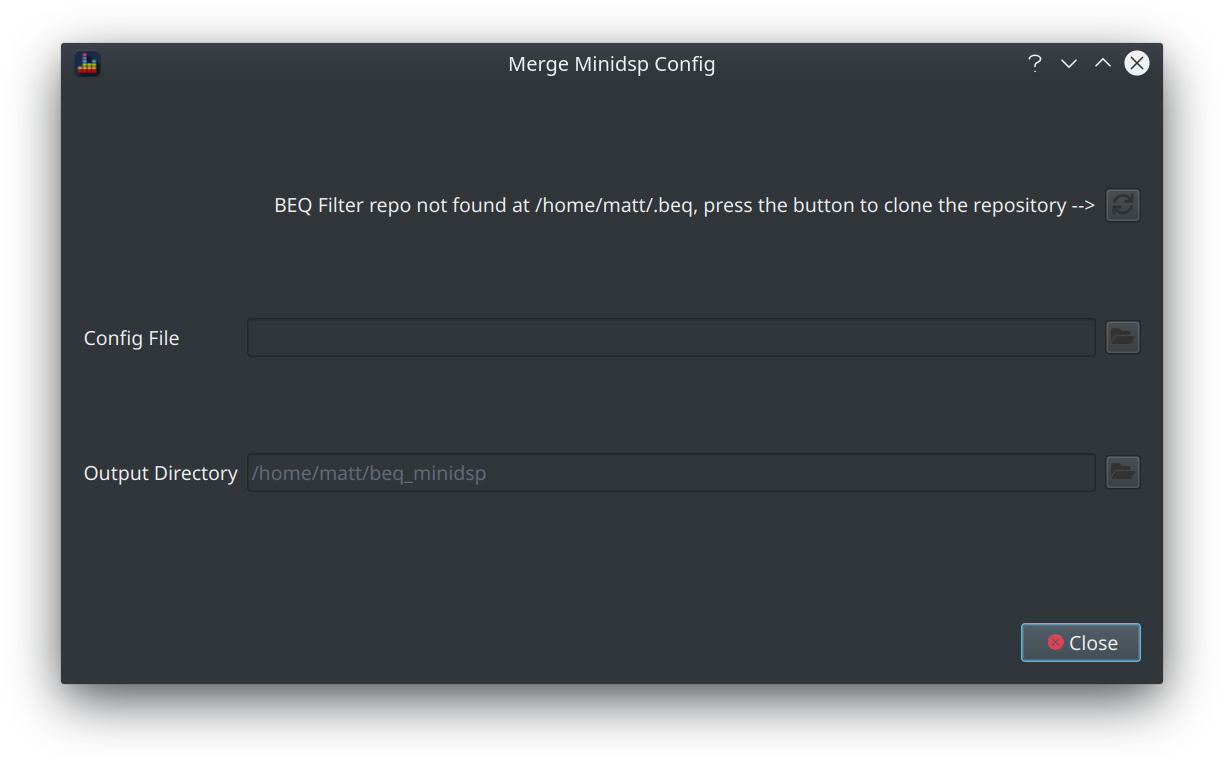
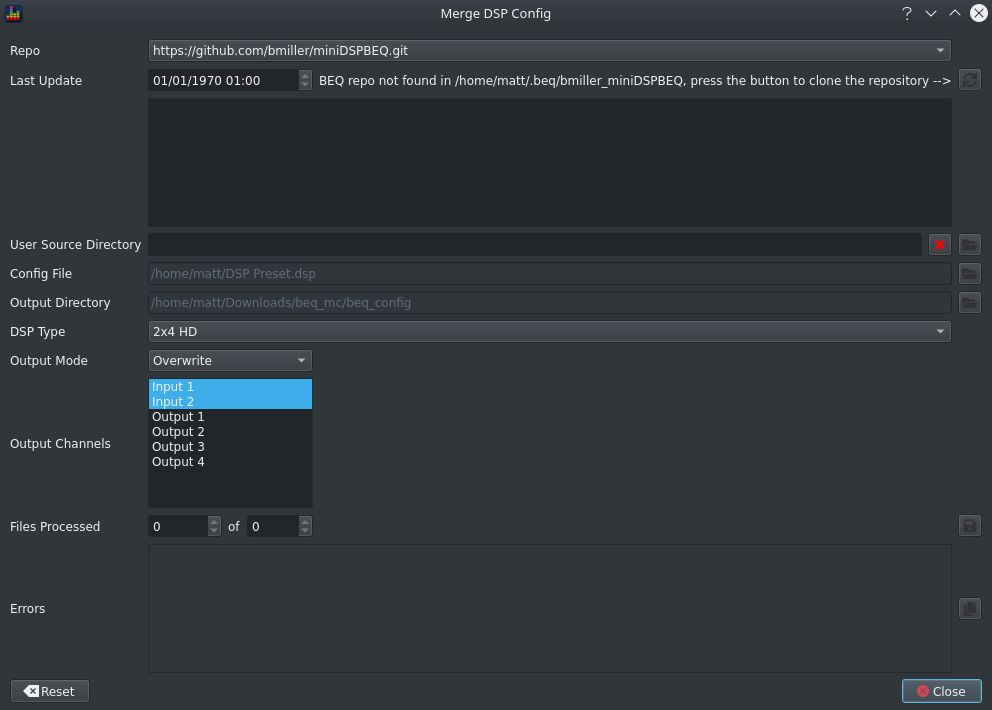
updated beq merge docs and make warning respect the config file extension of the selected dsp device

Changed region(s): [[0.0, 0.0, 1.0, 1.0], [0.1562, 0.3718, 0.4062, 0.4338]]

diff --git a/src/main/python/model/merge.py b/src/main/python/model/merge.py
@@ -295,11 +295,13 @@ class MergeFiltersDialog(QDialog, Ui_mergeDspDialog):
         Empties the output directory if required
         '''
         import glob
-        matching_files = glob.glob(f"{self.outputDirectory.text()}/**/*.xml", recursive=True)
+        dsp_type: DspType = DspType.parse(self.dspType.currentText())
+        matching_files = glob.glob(f"{self.outputDirectory.text()}/**/*.{dsp_type.extension}", recursive=True)
         if len(matching_files) > 0:
             result = QMessageBox.question(self,
                                           'Clear Directory',
-                                          f"All generated config files will be deleted from {self.outputDirectory.text()}\nAre you sure you want to continue?",
+                                          f"All generated config files will be deleted from "
+                                          f"{self.outputDirectory.text()}\nAre you sure you want to continue?",
                                           QMessageBox.Yes | QMessageBox.No,
                                           QMessageBox.No)
             if result == QMessageBox.Yes:
@@ -461,21 +463,22 @@ class MergeFiltersDialog(QDialog, Ui_mergeDspDialog):
 
 
 class DspType(Enum):
-    MINIDSP_TWO_BY_FOUR_HD = ('2x4 HD', True, True, False, (('1', '2'), ('3', '4', '5', '6')))
-    MINIDSP_TWO_BY_FOUR = ('2x4', False, True, False, None)
-    MINIDSP_TEN_BY_TEN = ('10x10', False, True, False, None)
-    MINIDSP_SHD = ('SHD', True, True, False, None)
-    MINIDSP_EIGHTY_EIGHT_BM = ('88BM', True, True, False, None)
-    MONOPRICE_HTP1 = ('HTP-1', False, False, False, None)
-    JRIVER_PEQ1 = ('JRiver PEQ1', False, False, False, None)
-    JRIVER_PEQ2 = ('JRiver PEQ2', False, False, False, None)
+    MINIDSP_TWO_BY_FOUR_HD = ('2x4 HD', True, True, False, (('1', '2'), ('3', '4', '5', '6')), 'xml')
+    MINIDSP_TWO_BY_FOUR = ('2x4', False, True, False, None, 'xml')
+    MINIDSP_TEN_BY_TEN = ('10x10', False, True, False, None, 'xml')
+    MINIDSP_SHD = ('SHD', True, True, False, None, 'xml')
+    MINIDSP_EIGHTY_EIGHT_BM = ('88BM', True, True, False, None, 'xml')
+    MONOPRICE_HTP1 = ('HTP-1', False, False, False, None, 'json')
+    JRIVER_PEQ1 = ('JRiver PEQ1', False, False, False, None, 'dsp')
+    JRIVER_PEQ2 = ('JRiver PEQ2', False, False, False, None, 'dsp')
 
-    def __init__(self, display_name, hd_compatible, is_minidsp, is_experimental, split_channels):
+    def __init__(self, display_name, hd_compatible, is_minidsp, is_experimental, split_channels, ext):
         self.display_name = display_name
         self.hd_compatible = hd_compatible
         self.is_minidsp = is_minidsp
         self.is_experimental = is_experimental
         self.split_channels = split_channels
+        self.extension = ext
 
     @property
     def can_split(self):

diff --git a/docs/ui/merge_beq.md b/docs/ui/merge_beq.md
@@ -1,22 +1,25 @@
 BEQDesigner provides support for the most commonly used mechanism for applying BEQ filters
 
   1. the published filters which are curated by AVS community member [DesertDog](https://www.avsforum.com/forum/members/7429388-desertdog.html) via his [github repo](https://github.com/bmiller/miniDSPBEQ)
-  2. application of those filters to the minidsp hardware 
+  2. application of those filters to supported hardware
 
 ### Prerequisites
 
-  1. You are using a supported minidsp device
-    * [2x4](https://www.minidsp.com/products/minidsp-in-a-box/minidsp-2x4) (either balanced or unbalanced)
-    * [2x4 HD](https://www.minidsp.com/products/minidsp-in-a-box/minidsp-2x4-hd)
-    * [10x10 HD](https://www.minidsp.com/products/minidsp-in-a-box/minidsp-10x10-hd)
-  2. You do not use the input EQ slots
-  3. You have exported your existing configuration via the minidsp UI to an XML file
+  1. You are using a supported device
+    * [Minidsp 2x4](https://www.minidsp.com/products/minidsp-in-a-box/minidsp-2x4) (either balanced or unbalanced)
+    * [Minidsp 2x4 HD](https://www.minidsp.com/products/minidsp-in-a-box/minidsp-2x4-hd)
+    * [Minidsp 10x10 HD](https://www.minidsp.com/products/minidsp-in-a-box/minidsp-10x10-hd)
+    * [Minidsp SHD](https://www.minidsp.com/products/streaming-hd-series/shd)
+    * [Minidsp 88BM](https://www.minidsp.com/products/dirac-series/ddrc-88bm)
+    * [Monoprice HTP-1](https://www.monoprice.com/product?p_id=37887)
+    * [JRiver Media Centre](https://jriver.com/) (v27.0.46 or higher)    
+  2. You have exported your existing configuration to a file (XML for minidsp, json for HTP-1, dsp for JRiver)
 
 This function is not for you if you do not meet these requirements.
 
 ### Instructions
 
-Hit the `Tools > Merge MiniDSP XML` menu item or press `CTRL+X` to open the dialog.
+Hit the `Tools > Merge BEQ` menu item or press `CTRL+X` to open the dialog.
 
 On first use, the dialog will state that no filter files have been found and instruct you to hit the button.
 
@@ -32,16 +35,17 @@ Clicking the button will instruct BEQDesigner to connect to github and clone the
 
 Next
 
-* click the button next to the config file and pick your XML config file
+* click the button next to the config file and pick your config file
 * change the output directory as necessary
     * note that BEQDesigner will create a new directory in whichever directory you pick in order to try to avoid clashing with any existing files
-* pick your minidsp device from the dropdown
+* pick your device from the dropdown
+* pick the channels to which the BEQ filters will be written to  
 * click the Save button (in the *Files Processed* row)
 
 ![Confirm](../img/merge_3.png)
 
 !!! warning
-    BEQDesigner will ask for confirmation if the output directory contains any files with the .xml extension. 
+    BEQDesigner will ask for confirmation if the output directory contains any files matching the extension of your configuration file. 
 
     * If you click Yes, all such files will be deleted
     * If you click No, no files will be deleted and BEQDesigner will take no further action 
@@ -53,20 +57,20 @@ If you clicked Yes, the following events should now happen:
 
 ![In Progress](../img/merge_4.png)
 
-If the selected minidsp type is the 2x4 HD then all files should be processed successfully
-
-![Done](../img/merge_5.png)
-
-However if the selected minidsp type is either the 2x4 or the 10x10 HD then errors should be expected as the hardware only supports 6 biquads per output channel and some BEQ filters require more than 6  biquads. The error section will specify which files were not processed successfully and how many biquads you'd need to eliminate to use this directly. A suggested workaround is found [below](#working-around-fixed-point-hardware-limitations)
+If the selected minidsp type is either the 2x4 or the 10x10 HD then errors should be expected as the hardware only supports 6 biquads per output channel and some BEQ filters require more than 6  biquads. The error section will specify which files were not processed successfully and how many biquads you'd need to eliminate to use this directly. A suggested workaround is found [below](#working-around-fixed-point-hardware-limitations)
 
 ![NonHD](../img/merge_error.png)
+
+For other DSP device types, all files should be processed successfully
+
+![Done](../img/merge_5.png)
 
 !!! info
     If any other errors are encountered, raise an issue via [github issues](https://github.com/3ll3d00d/beqdesigner/issues) to discuss further
 
 ### Keeping the Repository Up to date
 
-BEQ community member [aron7awol](https://www.avsforum.com/forum/members/8588090-aron7awol.html) cranks out new filters at a rate of knots so the repository is regularly updated. 
+The BEQ community cranks out new filters at a rate of knots so the repository is regularly updated. 
 
 If more than 7 days have passed since the last commit found locally then BEQDesigner will prompt you to update your local copy
 

diff --git a/docs/install.md b/docs/install.md
@@ -2,7 +2,7 @@
 
 Releases are hosted on github, the latest official release will always be available via the [github releases page](https://github.com/3ll3d00d/beqdesigner/releases/latest)
 
-4 sets of binaries are provided for official releases:
+3 sets of binaries are provided for official releases:
 
 File Name | OS | Description 
 ----------|----|------------
